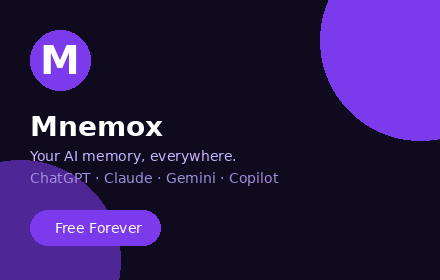
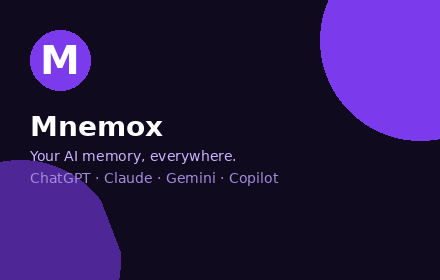
Fix privacy policy content and remove Free badge from promo tiles

Changed region(s): [[0.0591, 0.7429, 0.3841, 0.8857]]

diff --git a/website/index.html b/website/index.html
@@ -453,59 +453,64 @@
 <div id="privacy-page">
   <div class="privacy-content">
     <h1>Privacy Policy</h1>
-    <p class="updated">Last updated: May 30, 2026</p>
+    <p class="updated">Last updated: July 4, 2026</p>
 
-    <p>Mnemox ("we", "us", or "our") operates the Mnemox Chrome extension and the website mnemoxpro.com. This Privacy Policy explains how we collect, use, and protect your information.</p>
+    <p>Mnemox ("we", "us", or "our") operates the Mnemox Chrome extension and the website mnemoxpro.com. This Privacy Policy explains what data the Extension collects, how it is handled, where it is stored, and whether it is shared with anyone. It reflects what the currently published version of the Extension actually does.</p>
 
-    <h2>1. Information We Collect</h2>
-    <p>We collect the following information when you use Mnemox:</p>
+    <h2>1. What runs entirely on your device (no data sent anywhere)</h2>
+    <p>By default, all of the following happen locally in your browser and are never transmitted:</p>
     <ul>
-      <li><strong>Account information:</strong> Your email address when you sign up.</li>
-      <li><strong>Memory content:</strong> Prompts and context you capture while using AI tools.</li>
-      <li><strong>Authentication tokens:</strong> JWT tokens used to authenticate your session.</li>
-      <li><strong>Extension settings:</strong> Your preferences stored locally in Chrome storage.</li>
+      <li>Reading the prompt you're typing and the AI's response text on supported platforms (ChatGPT, Claude, Gemini, Microsoft Copilot, Perplexity, and Grok/X), to compute a prompt-quality score, an estimated token count, and a response-quality ("MnemoxTrust") score.</li>
+      <li>Showing the floating score badge and coaching panel.</li>
+      <li>Storing your last score, last response-quality result, session count, and feature preferences in <code>chrome.storage.local</code> — this stays on your device.</li>
+    </ul>
+    <p>The Extension does not collect passwords, payment information, or data from any site outside the supported AI platforms.</p>
+
+    <h2>2. Optional: Cloud Traces (off by default)</h2>
+    <p>The popup includes a "Cloud Traces" toggle that is <strong>off by default</strong>. If — and only if — you turn it on:</p>
+    <ul>
+      <li>The text of your prompt and the AI's response (each truncated to 5,000 characters), the platform name, your prompt/trust scores, and token count are sent to our backend (mnemox-production.up.railway.app) so they can appear in the in-extension Traces dashboard.</li>
+      <li>This is tied to a randomly generated device ID (<code>mnemox_uuid</code>) created on install. No account, email, or sign-up is required or used by the Extension itself, and this ID cannot be linked to your identity by us.</li>
+      <li>You can turn this off at any time from the popup; no further data is sent to the Traces dashboard from the point you turn it off.</li>
+    </ul>
+    <p>Separately, the Extension pings our backend's <code>/health</code> endpoint on browser startup to keep it warm — this request carries no prompt content or identifiers.</p>
+
+    <h2>3. Data Retention</h2>
+    <ul>
+      <li>Locally stored data persists until you clear the Extension's storage or remove the Extension.</li>
+      <li>If you've enabled Cloud Traces, traces are retained on our backend, keyed to your anonymous device ID, until you request deletion (contact below) or we implement in-dashboard deletion.</li>
     </ul>
 
-    <h2>2. How We Use Your Information</h2>
+    <h2>4. Optional Local MCP Integration</h2>
+    <p>Mnemox also offers a separately-installed developer companion tool (<code>mnemox-mcp</code>) that lets tools such as Claude Code or Cursor query Mnemox memory. If you install and configure this optional tool with your own backend credentials, memory you explicitly save through it is sent to the backend URL <em>you</em> configure. This component is opt-in, runs independently of the browser extension, and is not installed or activated by the Extension itself.</p>
+
+    <h2>5. Data Sharing</h2>
+    <p>We do not sell, rent, or share your data with third parties. We do not use your data for advertising, and we do not allow third parties to use it for creditworthiness or lending purposes. Cloud Traces data (only if you opt in) is processed by our hosting provider (Railway) solely to run the backend.</p>
+
+    <h2>6. Your Controls</h2>
     <ul>
-      <li>To provide the memory capture and injection service.</li>
-      <li>To authenticate you securely across sessions.</li>
-      <li>To enable semantic search across your memories.</li>
-      <li>To manage your subscription if you upgrade to a paid plan.</li>
+      <li>Toggle Cloud Traces on/off anytime from the popup.</li>
+      <li>Clear or delete all locally stored data by removing the Extension from your browser, or via your browser's extension storage settings.</li>
+      <li>Request deletion of any Cloud Traces data tied to your device ID by contacting us below.</li>
     </ul>
 
-    <h2>3. Data Storage</h2>
-    <p>Your memories are stored in a secure database (Supabase) and a vector store (Qdrant) hosted on cloud infrastructure. Memory content is associated with your user account only and is not accessible to other users.</p>
-
-    <h2>4. Data Sharing</h2>
-    <p>We do not sell, rent, or share your personal data with third parties, except:</p>
+    <h2>7. Permissions Used by the Extension</h2>
     <ul>
-      <li><strong>Service providers:</strong> Supabase (database), Qdrant (vector storage), OpenAI (embeddings generation), and Stripe (payment processing) as necessary to operate the service.</li>
-      <li><strong>Legal requirements:</strong> If required by law or to protect our rights.</li>
+      <li><strong>storage:</strong> To save prompt scores, session stats, and feature-flag/consent preferences locally.</li>
+      <li><strong>scripting:</strong> To inject the local scoring engine into supported AI chat pages.</li>
+      <li><strong>activeTab:</strong> To access the current tab's text input fields.</li>
+      <li><strong>tabs:</strong> To open the Traces dashboard tab from the popup.</li>
+      <li><strong>Host permissions</strong> (chatgpt.com, chat.openai.com, claude.ai, gemini.google.com, copilot.microsoft.com, perplexity.ai, x.com, grok.com, mnemox-production.up.railway.app): Scoped to the specific AI platforms Mnemox supports, plus the Mnemox API host used only when the optional Cloud Traces toggle is on.</li>
     </ul>
-
-    <h2>5. Data Retention</h2>
-    <p>We retain your data for as long as your account is active. You can delete individual memories from the dashboard at any time. To delete your account and all associated data, contact us at [email redacted].</p>
-
-    <h2>6. Permissions Used by the Extension</h2>
-    <ul>
-      <li><strong>storage:</strong> To save your settings and memories locally between sessions.</li>
-      <li><strong>activeTab:</strong> To detect which AI platform you are using.</li>
-      <li><strong>scripting:</strong> To inject memory context into AI chat interfaces.</li>
-      <li><strong>Host permissions (chatgpt.com, claude.ai, gemini.google.com, copilot.microsoft.com):</strong> To run content scripts on supported AI platforms.</li>
-    </ul>
-
-    <h2>7. Security</h2>
-    <p>We use industry-standard security measures including HTTPS, JWT-based authentication, and row-level security in our database. No method of transmission over the Internet is 100% secure, however, and we cannot guarantee absolute security.</p>
 
     <h2>8. Children's Privacy</h2>
     <p>Mnemox is not directed at children under 13. We do not knowingly collect personal information from children under 13.</p>
 
     <h2>9. Changes to This Policy</h2>
-    <p>We may update this Privacy Policy from time to time. We will notify you of any changes by updating the "Last updated" date at the top of this page.</p>
+    <p>We may update this Privacy Policy from time to time. We will notify you of any changes by updating the "Last updated" date at the top of this page and, for material changes, note them in the Extension's Chrome Web Store listing.</p>
 
     <h2>10. Contact Us</h2>
-    <p>If you have any questions about this Privacy Policy,  please contact us at <a href="mailto:[email redacted]">[email redacted]</a>.</p>
+    <p>If you have any questions about this Privacy Policy, please contact us at <a href="mailto:[email redacted]">[email redacted]</a>.</p>
   </div>
 </div>
 